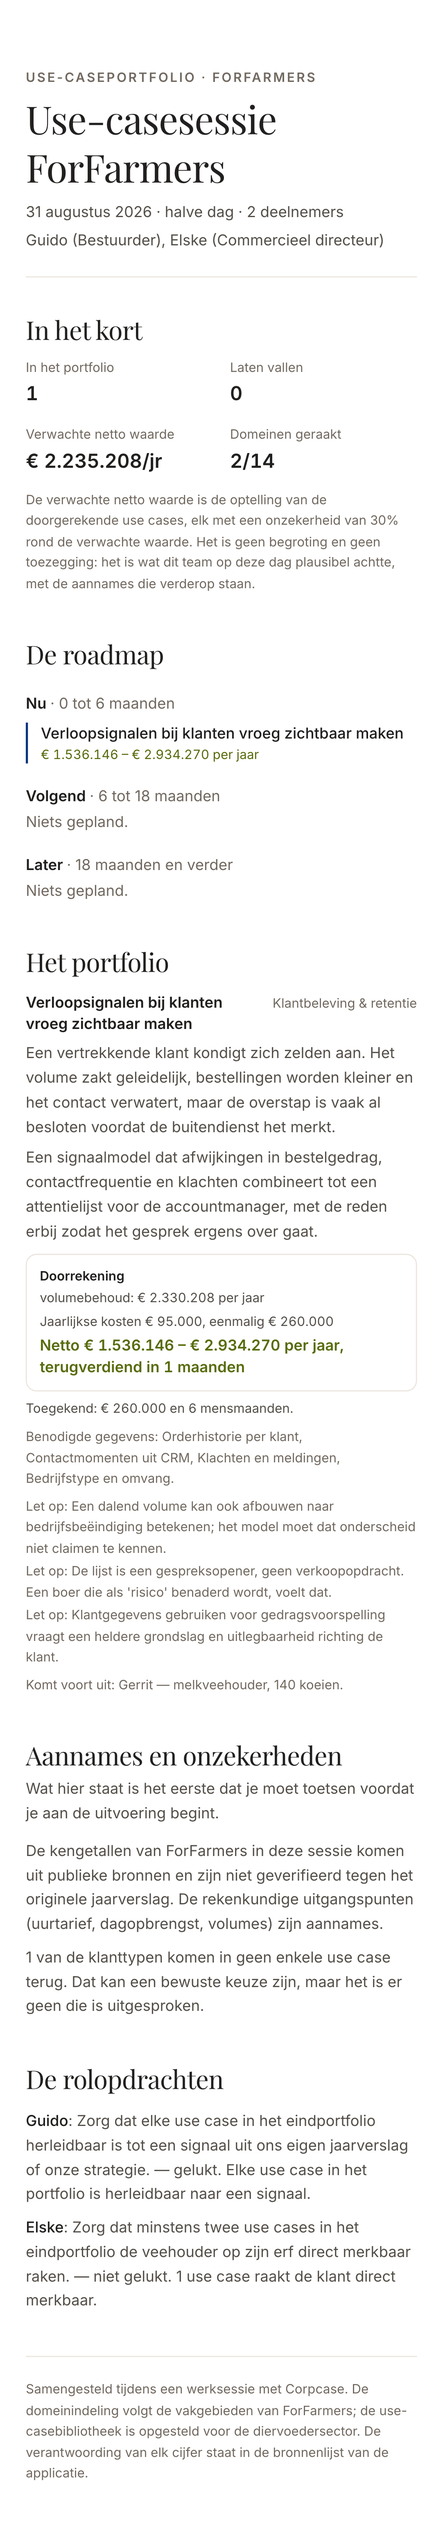
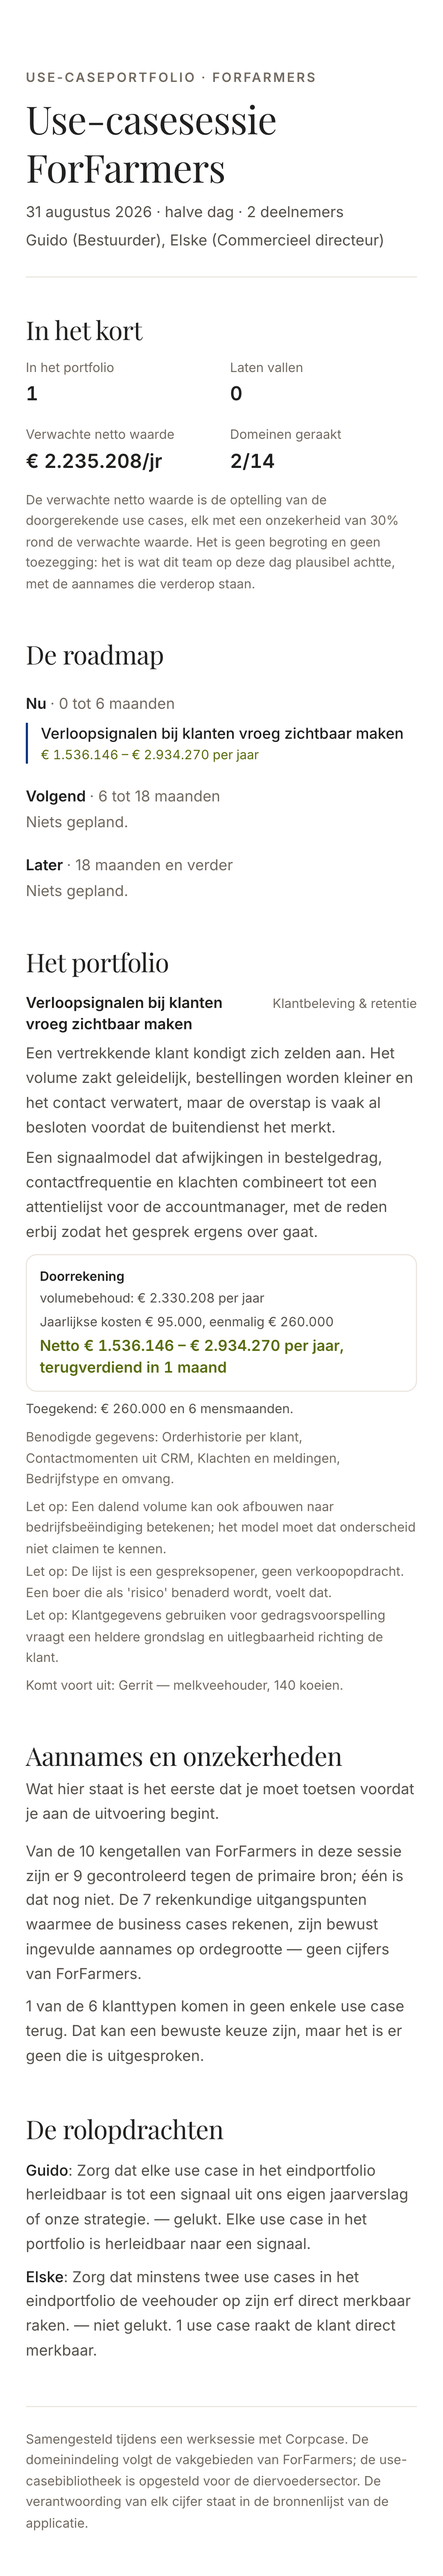
fix: vijf fouten uit een eigen ronde langs de lege en de gevulde sessie
Gevonden door een lege sessie door alle fases te jagen en de schermen op drie
breedtes vast te leggen. Geen van deze vijf brak de app; ze logen alleen tegen
de gebruiker, en dat is bij een instrument dat aan een bestuurstafel ligt erger.

1. "terugverdiend in 1 maanden". Een kale Math.round gaf ook "0 maanden" bij
   alles onder het half, wat leest als gratis. Nu formatteerTerugverdientijd,
   met "minder dan een maand" onder de één en "onbekend" bij een onbruikbare
   waarde.

2. De rolopdrachten spraken zichzelf tegen bij een leeg portfolio: het etiket
   zei "niet gelukt", de zin eronder "Elke use case in het portfolio is
   herleidbaar naar een signaal". De controles van het type "elke use case moet
   X" vinden in een lege verzameling namelijk geen overtreding.

3. Erger, bij dezelfde oorzaak: `privacy_aandachtspunt_vastgelegd` gaf gehaald
   terug bij een leeg portfolio. Een pluim voor niets doen, terwijl de twee
   verwante controles juist faalden. Nu vangt één guard bovenaan het lege geval
   af, voor alle controles gelijk.

4. Het rapport beweerde vast dat de kengetallen "niet geverifieerd" waren en
   noemde "dagopbrengst" — een driver uit de vorige sector die hier niet
   bestaat. Het telt nu de verificatievlaggen uit de content, dus het zegt wat
   er werkelijk is gecontroleerd. Dit is de zin die meegaat naar een
   RvC-gesprek; die hoort niet te liegen over onze eigen datakwaliteit.
[…]

diff --git a/src/app/sessie/[id]/rapport/page.tsx b/src/app/sessie/[id]/rapport/page.tsx
@@ -22,7 +22,11 @@ import {
   onvolledigeBusinessCases,
   portfolio,
 } from "@/lib/sessie/afgeleid";
-import { formatteerBandbreedte, formatteerEuro } from "@/lib/waarde/berekening";
+import {
+  formatteerBandbreedte,
+  formatteerEuro,
+  formatteerTerugverdientijd,
+} from "@/lib/waarde/berekening";
 import { Hoofdregel, Knop, Melding } from "@/components/basis";
 import { Thema } from "@/components/thema";
 import { downloadCsv, genereerRapportCsv } from "@/lib/rapport/csv";
@@ -57,6 +61,9 @@ export default function RapportPagina() {
   const gedekt = dekking(state);
   const stand = budgetStand(state);
   const signalen = alleSignalen(state.sessie.organisatie_id);
+  // De verantwoording leest de vlaggen uit de content in plaats van een vaste zin te herhalen:
+  // anders blijft er staan dat niets geverifieerd is terwijl het merendeel dat wel is.
+  const kengetallenOpen = org.kengetallen.filter((k) => !k.geverifieerd).length;
   const kanttekeningen = aannames(state);
   const onvolledig = onvolledigeBusinessCases(state);
 
@@ -271,7 +278,7 @@ export default function RapportPagina() {
                     >
                       Netto {formatteerBandbreedte(beeld.businessCase.netto_baat)} per jaar
                       {beeld.businessCase.terugverdientijd_maanden
-                        ? `, terugverdiend in ${Math.round(beeld.businessCase.terugverdientijd_maanden)} maanden`
+                        ? `, terugverdiend in ${formatteerTerugverdientijd(beeld.businessCase.terugverdientijd_maanden)}`
                         : ""}
                     </p>
                     {!beeld.businessCase.volledig ? (
@@ -386,9 +393,16 @@ export default function RapportPagina() {
 
         <ul className="mt-3 space-y-2">
           <li className="text-sm leading-relaxed text-inkt-zacht">
-            De kengetallen van {org.naam} in deze sessie komen uit publieke bronnen en zijn niet
-            geverifieerd tegen het originele jaarverslag. De rekenkundige uitgangspunten
-            (uurtarief, dagopbrengst, volumes) zijn aannames.
+            {kengetallenOpen === 0
+              ? `Alle ${org.kengetallen.length} kengetallen van ${org.naam} in deze sessie zijn gecontroleerd tegen de primaire bron.`
+              : `Van de ${org.kengetallen.length} kengetallen van ${org.naam} in deze sessie ${
+                  org.kengetallen.length - kengetallenOpen === 1 ? "is er 1" : `zijn er ${org.kengetallen.length - kengetallenOpen}`
+                } gecontroleerd tegen de primaire bron; ${
+                  kengetallenOpen === 1 ? "één is dat nog niet" : `${kengetallenOpen} nog niet`
+                }.`}{" "}
+            De {org.rekenkundige_uitgangspunten.length} rekenkundige uitgangspunten waarmee de
+            business cases rekenen, zijn bewust ingevulde aannames op ordegrootte — geen cijfers
+            van {org.naam}.
           </li>
 
           {onvolledig.length > 0 ? (
@@ -421,6 +435,7 @@ export default function RapportPagina() {
           {gedekt.personasGemist.length > 0 ? (
             <li className="text-sm leading-relaxed text-inkt-zacht">
               {gedekt.personasGemist.length} van de{" "}
+              {gedekt.personasGemist.length + gedekt.personasGeraakt.length}{" "}
               {klantlensVoorOrganisatie(state.sessie.organisatie_id).meervoud} komen in geen enkele
               use case terug. Dat kan een bewuste keuze zijn, maar het is er geen die is
               uitgesproken.

diff --git a/src/lib/sessie/__tests__/rolopdrachten.test.ts b/src/lib/sessie/__tests__/rolopdrachten.test.ts
@@ -1,0 +1,75 @@
+import { describe, expect, it } from "vitest";
+import { beoordeelRolopdracht } from "../afgeleid";
+import { organisaties, rolopdrachtenVoorOrganisatie, speelmodi } from "@/lib/content";
+import type { SessieState } from "@/lib/supabase/types";
+
+/**
+ * Een sessie waarin niemand iets in het portfolio heeft gezet.
+ *
+ * Dat is geen theoretisch geval: het is de stand waarin elke sessie begint, en de stand waarin de
+ * opbrengstfase belandt als een groep vastloopt. Juist dan moet de onthulling van de rolopdrachten
+ * kloppen, want die is bedoeld als bevinding — niet als ruis.
+ */
+function legeSessie(): SessieState {
+  const org = organisaties[0];
+  return {
+    sessie: {
+      id: "test",
+      titel: "Lege sessie",
+      organisatie_id: org.id,
+      speelmodus: speelmodi.modi[0].id,
+      fase: "opbrengst",
+      join_code: "ABCDEF",
+      beheer_code: null,
+      budget_geld: org.budget_defaults.geld_eur,
+      budget_capaciteit: org.budget_defaults.verandercapaciteit_mensmaanden,
+      uitgangspunten: {},
+      onzekerheid_pct: 30,
+      fase_deadline: null,
+      aangemaakt_op: "2026-01-01T00:00:00Z",
+      bijgewerkt_op: "2026-01-01T00:00:00Z",
+      afgerond_op: null,
+    },
+    deelnemers: [],
+    selecties: [],
+    usecases: [],
+    usecaseSignalen: [],
+    waarderingen: [],
+    bijdragen: [],
+    allocaties: [],
+    besluiten: [],
+    roadmap: [],
+  };
+}
+
+describe("rolopdrachten bij een leeg portfolio", () => {
+  const controles = rolopdrachtenVoorOrganisatie(organisaties[0].id).opdrachten.map(
+    (o) => o.controle,
+  );
+
+  it("beoordeelt geen enkele opdracht als gehaald", () => {
+    for (const controle of controles) {
+      const oordeel = beoordeelRolopdracht(legeSessie(), controle);
+      expect(oordeel.gehaald, `${controle} zou niet gehaald mogen zijn`).toBe(false);
+    }
+  });
+
+  /**
+   * Dit was de fout: de controles van het type "elke use case moet X" vonden in een lege
+   * verzameling geen overtreding en meldden "elke use case is in orde", terwijl het oordeel niet
+   * gehaald was. Op het scherm stond dan een rood etiket boven een groene zin.
+   */
+  it("laat de toelichting niet beweren dat alles in orde is", () => {
+    for (const controle of controles) {
+      const oordeel = beoordeelRolopdracht(legeSessie(), controle);
+      expect(oordeel.toelichting, `${controle} spreekt zijn eigen oordeel tegen`).not.toMatch(
+        /^Elke use case/,
+      );
+    }
+  });
+
+  it("zegt in gewone taal waaróm het niet lukte", () => {
+    const oordeel = beoordeelRolopdracht(legeSessie(), controles[0]);
+    expect(oordeel.toelichting).toContain("niets in het portfolio");
+  });
+});

diff --git a/src/lib/sessie/afgeleid.ts b/src/lib/sessie/afgeleid.ts
@@ -363,11 +363,25 @@ export function beoordeelRolopdracht(state: SessieState, controle: string): Opdr
   const inPortfolio = portfolio(state);
   const sector = profielVoorOrganisatie(state.sessie.organisatie_id).sector;
 
+  /*
+   * Een leeg portfolio eerst, want zonder deze regel spreken oordeel en toelichting elkaar tegen.
+   * De controles van het type "elke use case moet X" kijken naar een lege verzameling, vinden geen
+   * overtreding, en melden dan "elke use case is in orde" — terwijl het oordeel niet gehaald is
+   * omdat er niets ligt. Bij `privacy_aandachtspunt_vastgelegd` viel het zelfs de andere kant op:
+   * die gaf gehaald terug, dus een pluim voor niets doen.
+   */
+  if (inPortfolio.length === 0) {
+    return {
+      gehaald: false,
+      toelichting: "Er staat niets in het portfolio, dus deze opdracht kon niet slagen.",
+    };
+  }
+
   switch (controle) {
     case "elke_usecase_heeft_thema": {
       const zonder = inPortfolio.filter((b) => b.signaalIds.length === 0);
       return {
-        gehaald: inPortfolio.length > 0 && zonder.length === 0,
+        gehaald: zonder.length === 0,
         toelichting:
           zonder.length === 0
             ? "Elke use case in het portfolio is herleidbaar naar een signaal."
@@ -424,7 +438,7 @@ export function beoordeelRolopdracht(state: SessieState, controle: string): Opdr
       const doorgerekend = inPortfolio.filter((b) => b.businessCase?.volledig).length;
       const nodig = Math.ceil(inPortfolio.length / 2);
       return {
-        gehaald: inPortfolio.length > 0 && doorgerekend >= nodig,
+        gehaald: doorgerekend >= nodig,
         toelichting: `${doorgerekend} van de ${inPortfolio.length} zijn volledig doorgerekend; nodig was ${nodig}.`,
       };
     }
@@ -432,7 +446,7 @@ export function beoordeelRolopdracht(state: SessieState, controle: string): Opdr
     case "elke_usecase_heeft_databron": {
       const zonder = inPortfolio.filter((b) => b.usecase.benodigde_data.length === 0);
       return {
-        gehaald: inPortfolio.length > 0 && zonder.length === 0,
+        gehaald: zonder.length === 0,
         toelichting:
           zonder.length === 0
             ? "Elke use case in het portfolio heeft een benoemde databron."

diff --git a/e2e/legestaten.spec.ts b/e2e/legestaten.spec.ts
@@ -1,0 +1,47 @@
+import { expect, test, type Page } from "@playwright/test";
+
+/**
+ * Jaagt een sessie door alle fases zonder ook maar iets in te vullen, en legt elk scherm vast.
+ * Lege staten zijn waar een spel als dit doorgaans breekt: delingen door nul, "0 van de 0", of
+ * een rapport dat beweert dat er iets ligt terwijl er niets is.
+ */
+
+const MAP = process.env.LEEG_MAP ?? "/tmp/leeg";
+const FASES = ["Verkennen", "Identificatie", "Waardebepaling", "Prioritering", "Roadmap", "Opbrengst"];
+
+test("lege sessie door alle fases", async ({ browser }) => {
+  const context = await browser.newContext({ viewport: { width: 900, height: 1400 } });
+  const page: Page = await context.newPage();
+  const fouten: string[] = [];
+  page.on("pageerror", (e) => fouten.push(`pageerror: ${e.message}`));
+  page.on("console", (m) => {
+    if (m.type() === "error") fouten.push(`console: ${m.text()}`);
+  });
+
+  await page.goto("/start");
+  await page.getByLabel("Jouw naam").fill("Guido");
+  await page.getByRole("button", { name: "Sessie starten" }).click();
+  await page.waitForURL(/\/sessie\/[0-9a-f-]+\/beheer$/);
+  const id = page.url().match(/\/sessie\/([0-9a-f-]+)\//)![1];
+
+  for (const fase of FASES) {
+    await page.goto(`/sessie/${id}/beheer`);
+    await page.getByRole("button", { name: `Volgende fase: ${fase}` }).click();
+    await page.waitForTimeout(600);
+    await page.goto(`/sessie/${id}`);
+    await page.waitForTimeout(600);
+    await page.screenshot({ path: `${MAP}/leeg-${fase.toLowerCase()}.png`, fullPage: true });
+  }
+
+  await page.goto(`/sessie/${id}/scherm`);
+  await page.waitForTimeout(600);
+  await page.screenshot({ path: `${MAP}/leeg-beamer.png`, fullPage: true });
+
+  await page.goto(`/sessie/${id}/rapport`);
+  await page.waitForTimeout(600);
+  await page.screenshot({ path: `${MAP}/leeg-rapport.png`, fullPage: true });
+
+  // Een lege sessie hoort net zo goed te renderen als een volle. Geen deling door nul, geen
+  // ontbrekende sleutel, geen scherm dat halverwege stopt.
+  expect(fouten, `JS-fouten in een lege sessie:\n${fouten.join("\n")}`).toEqual([]);
+});

diff --git a/src/lib/waarde/__tests__/berekening.test.ts b/src/lib/waarde/__tests__/berekening.test.ts
@@ -6,6 +6,7 @@ import {
   berekenBudgetStand,
   berekenBusinessCase,
   berekenDriver,
+  formatteerTerugverdientijd,
   gemiddeldeScore,
   STANDAARD_BANDBREEDTE_PCT,
 } from "../berekening";
@@ -289,5 +290,32 @@ describe("de formule in de content is de implementatie", () => {
     expect(ids).toContain("dienstopbrengst");
     // Zou een tweede sector erbij komen, dan brengt die zijn eigen lijst mee.
     expect(ids.sort()).toEqual(waardeModel.drivertypes.map((d) => d.id).sort());
+  });
+});
+
+describe("formatteerTerugverdientijd", () => {
+  /**
+   * Op het scherm stond "terugverdiend in 1 maanden", en bij alles onder het half zelfs
+   * "0 maanden" — wat leest als gratis. Beide kwamen uit een kale Math.round.
+   */
+  it("zegt 'maand' bij precies één", () => {
+    expect(formatteerTerugverdientijd(1)).toBe("1 maand");
+    expect(formatteerTerugverdientijd(1.4)).toBe("1 maand");
+  });
+
+  it("rondt niet naar nul af maar zegt het in woorden", () => {
+    expect(formatteerTerugverdientijd(0.4)).toBe("minder dan een maand");
+    expect(formatteerTerugverdientijd(0.99)).toBe("minder dan een maand");
+  });
+
+  it("gebruikt meervoud vanaf twee", () => {
+    expect(formatteerTerugverdientijd(1.6)).toBe("2 maanden");
+    expect(formatteerTerugverdientijd(18)).toBe("18 maanden");
+  });
+
+  it("noemt een onbruikbare waarde onbekend in plaats van nul", () => {
+    expect(formatteerTerugverdientijd(0)).toBe("onbekend");
+    expect(formatteerTerugverdientijd(-3)).toBe("onbekend");
+    expect(formatteerTerugverdientijd(Number.NaN)).toBe("onbekend");
   });
 });

diff --git a/src/components/fases/waardebepaling.tsx b/src/components/fases/waardebepaling.tsx
@@ -9,7 +9,12 @@ import {
 import type { Dimensie } from "@/lib/content/schemas";
 import { opslag } from "@/lib/sessie/api";
 import { alleBeelden, type UsecaseBeeld } from "@/lib/sessie/afgeleid";
-import { driversUitBibliotheek, formatteerBandbreedte, formatteerEuro } from "@/lib/waarde/berekening";
+import {
+  driversUitBibliotheek,
+  formatteerBandbreedte,
+  formatteerEuro,
+  formatteerTerugverdientijd,
+} from "@/lib/waarde/berekening";
 import type { SessieState, Waardemodus } from "@/lib/supabase/types";
 import type { BewaardeIdentiteit } from "@/lib/sessie/identiteit";
 import {
@@ -214,7 +219,7 @@ function Samenvatting({ beeld }: { beeld: UsecaseBeeld }) {
           {formatteerBandbreedte(bc.netto_baat)} per jaar
         </span>
         {bc.terugverdientijd_maanden ? (
-          <Etiket>terugverdiend in {Math.round(bc.terugverdientijd_maanden)} maanden</Etiket>
+          <Etiket>terugverdiend in {formatteerTerugverdientijd(bc.terugverdientijd_maanden)}</Etiket>
         ) : null}
         {!bc.volledig ? <Etiket toon="aandacht">nog niet compleet</Etiket> : null}
       </div>

diff --git a/e2e/sessie.spec.ts b/e2e/sessie.spec.ts
@@ -191,8 +191,11 @@ test("drie spelers doorlopen samen een sessie tot en met de roadmap", async ({ b
   await commercie.goto(`/sessie/${sessieId}/rapport`);
   await expect(commercie.getByRole("heading", { name: "Het portfolio" })).toBeVisible();
   await expect(commercie.getByRole("heading", { name: "Aannames en onzekerheden" })).toBeVisible();
+  // De verantwoording leest de verificatievlaggen uit de content; ze stond eerder vast als
+  // "niets is geverifieerd", wat onwaar werd zodra de cijfers wél gecontroleerd waren.
+  await expect(commercie.getByText(/gecontroleerd tegen de primaire bron/)).toBeVisible();
   await expect(
-    commercie.getByText(/komen uit publieke bronnen en zijn niet geverifieerd/),
+    commercie.getByText(/rekenkundige uitgangspunten waarmee de business cases rekenen/),
   ).toBeVisible();
   // De randvoorwaarde die Marieke invulde staat bij het roadmap-item in het rapport.
   await expect(commercie.getByText(/Eerst nodig: Koppelvlak op het ERP/)).toBeVisible();

diff --git a/src/lib/waarde/berekening.ts b/src/lib/waarde/berekening.ts
@@ -265,6 +265,20 @@ export function formatteerEuro(bedrag: number): string {
   }).format(bedrag);
 }
 
+/**
+ * Terugverdientijd in leesbare tekst.
+ *
+ * Twee dingen die met `Math.round` misgingen: "1 maanden" bij precies één maand, en "0 maanden"
+ * bij alles onder het half — wat leest als gratis. Een terugverdientijd korter dan een maand
+ * zeggen we daarom in woorden.
+ */
+export function formatteerTerugverdientijd(maanden: number): string {
+  if (!Number.isFinite(maanden) || maanden <= 0) return "onbekend";
+  if (maanden < 1) return "minder dan een maand";
+  const afgerond = Math.round(maanden);
+  return afgerond === 1 ? "1 maand" : `${afgerond} maanden`;
+}
+
 export function formatteerBandbreedte(band: Bandbreedte | null): string {
   if (!band) return "onbekend";
   return `${formatteerEuro(band.laag)} – ${formatteerEuro(band.hoog)}`;
